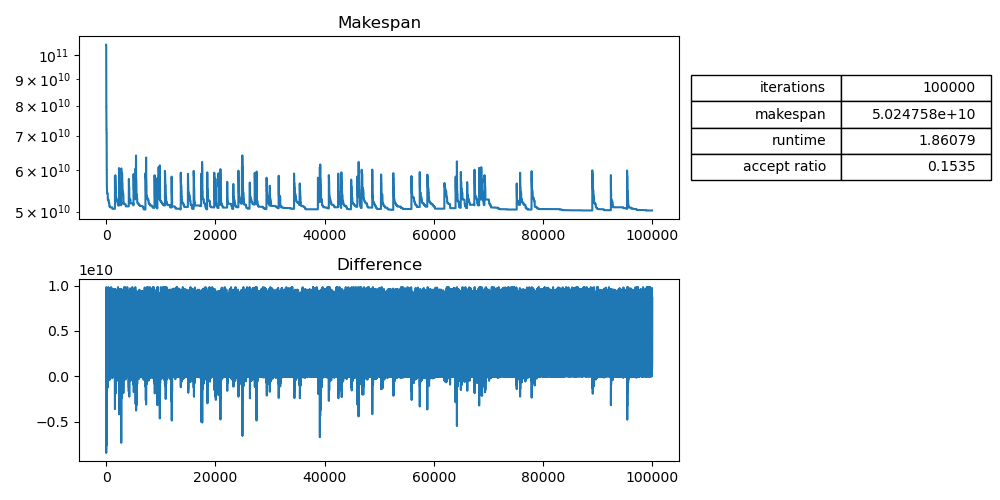
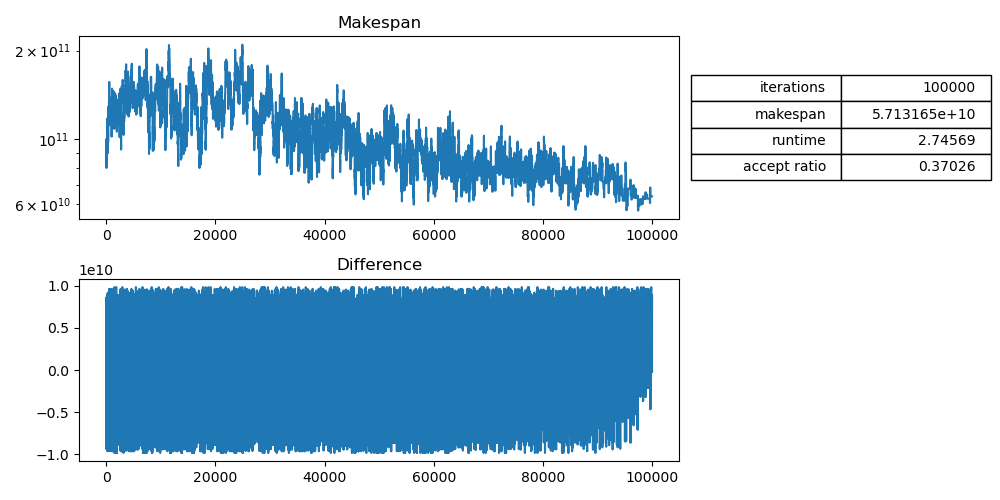
changed the p_functions again

diff --git a/simann/p_functions.py b/simann/p_functions.py
@@ -21,22 +21,22 @@ def linearBadmoveAccept(difference, temperature, good_accept, bad_accept):
 
 def exponentialDecay(difference, temperature, good_accept, bad_accept):
     """Use an exponential function of the difference."""
-    if difference <= 0: # good-move
+    if difference < 0: # good-move
         # If the improvement is too good. We want to make the algorithm less 'greedy'.
-        return random.random() < math.exp(difference / good_accept)
+        return random.random() < math.exp(good_accept / difference)
     else: # bad-move
         # If the temperature approaches 0, we are getting more careful, so the chance
         # of still accepting gets smaller and smaller.
         # Furthermore, the larger the difference, the smaller the chance that we will accept the move.
-        return random.random() < temperature * math.exp(-bad_accept / difference)
+        return random.random() < temperature * math.exp(-difference / bad_accept)
 
 def exponentialDecayNonInc(difference, temperature, good_accept, bad_accept):
     """Use an exponential function of the difference."""
-    if difference <= 0: # good-move
+    if difference < 0: # good-move
         # If the improvement is too good. We want to make the algorithm less 'greedy'.
-        return random.random() < math.exp(difference / good_accept)
+        return random.random() < math.exp(good_accept / difference)
     else: # bad-move
         # If the temperature approaches 0, we are getting more careful, so the chance
         # of still accepting gets smaller and smaller.
         # Furthermore, the larger the difference, the smaller the chance that we will accept the move.
-        return random.random() < temperature * math.exp(-bad_accept / difference )
+        return random.random() < temperature * math.exp(-difference / bad_accept)

diff --git a/simann/acceptance_comparison.py b/simann/acceptance_comparison.py
@@ -10,10 +10,14 @@ instance = SimulatedAnnealing.fromFile(jobs_file, m)
 # output filename
 output_prefix = "./experiments/accept_exp"
 
-accept_exp1 = instance.start(100000, exponentialDecay, 9.8e9, 4e10) #tried to use max(jobs_file) for the third entry to get the largest single processing time as good_accept, but that does not work. 
+accept_exp1 = instance.start(100000, exponentialDecay, 8e9, 4e10)  
 accept_exp1.plotResults("{}1.png".format(output_prefix))
 
-accept_exp2 = instance.start(100000, exponentialDecayNonInc, 8e10, 4e10)
+accept_exp2 = instance.start(100000, exponentialDecay, 8e8, 4e10)
 accept_exp2.plotResults("{}2.png".format(output_prefix))
 
+accept_exp3 = instance.start(100000, exponentialDecayNonInc, 8e9, 4e10)
+accept_exp3.plotResults("{}3.png".format(output_prefix))
 
+accept_exp4 = instance.start(100000, exponentialDecayNonInc, 8e8, 4e10)
+accept_exp4.plotResults("{}4.png".format(output_prefix))
